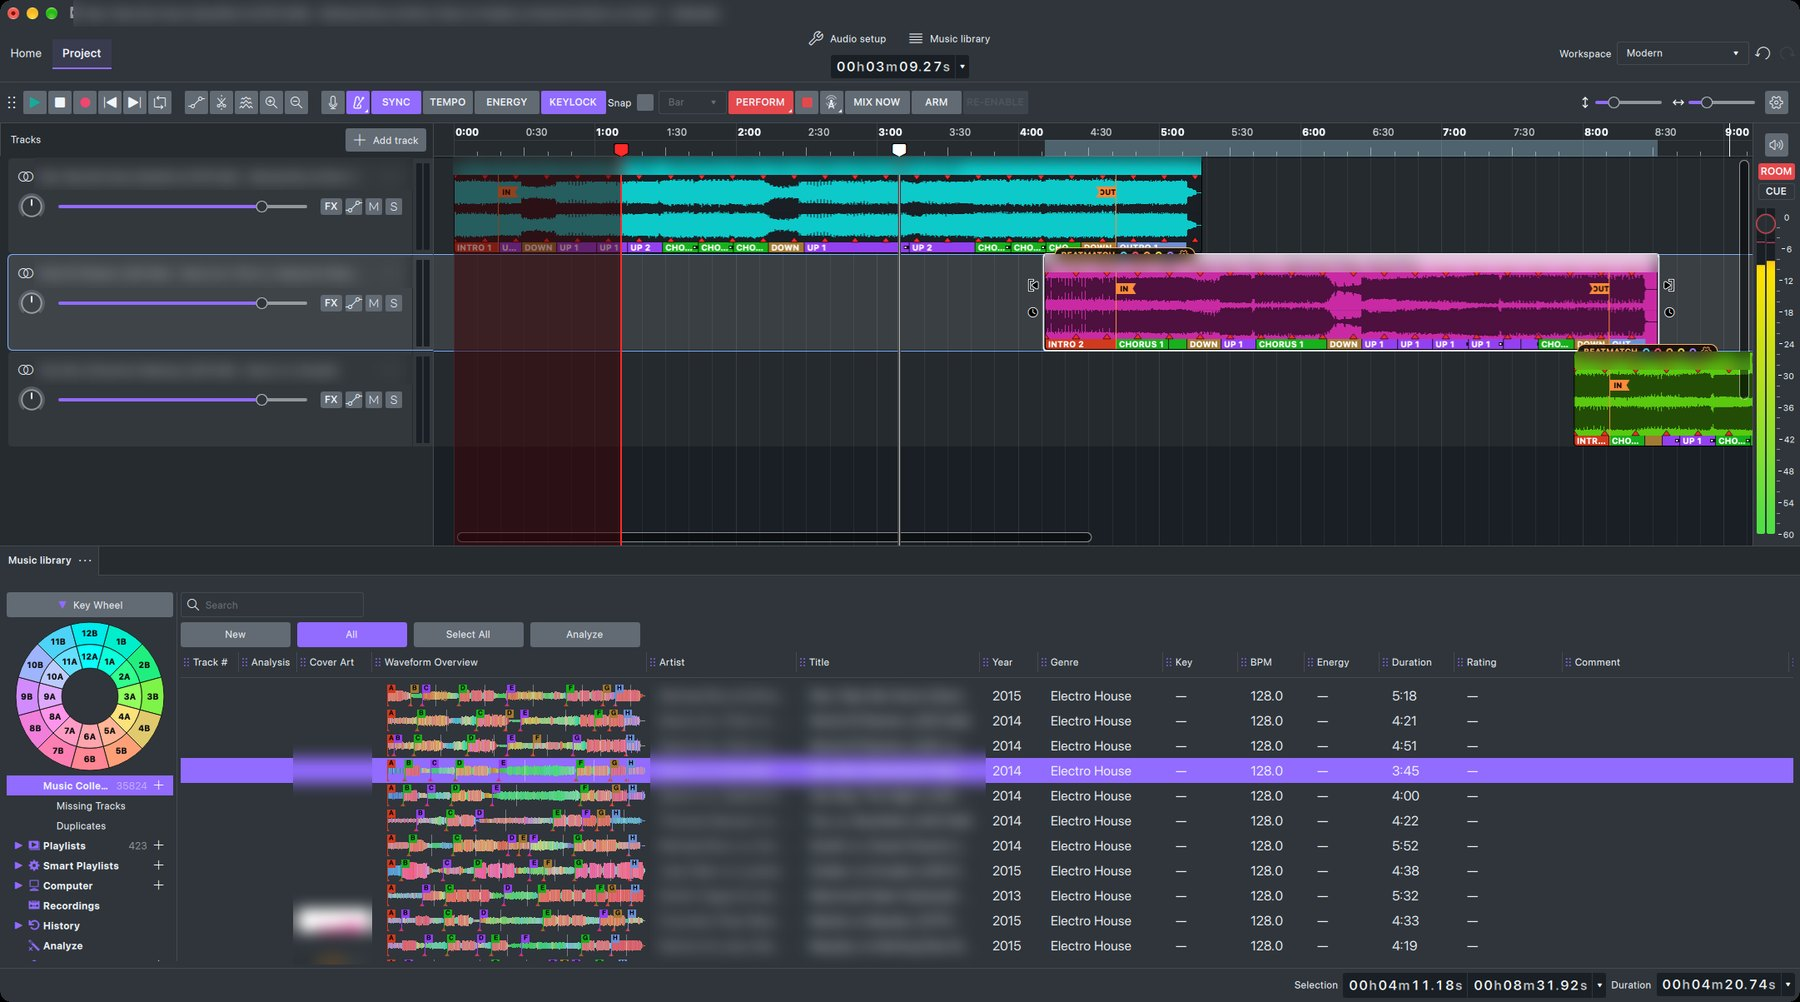
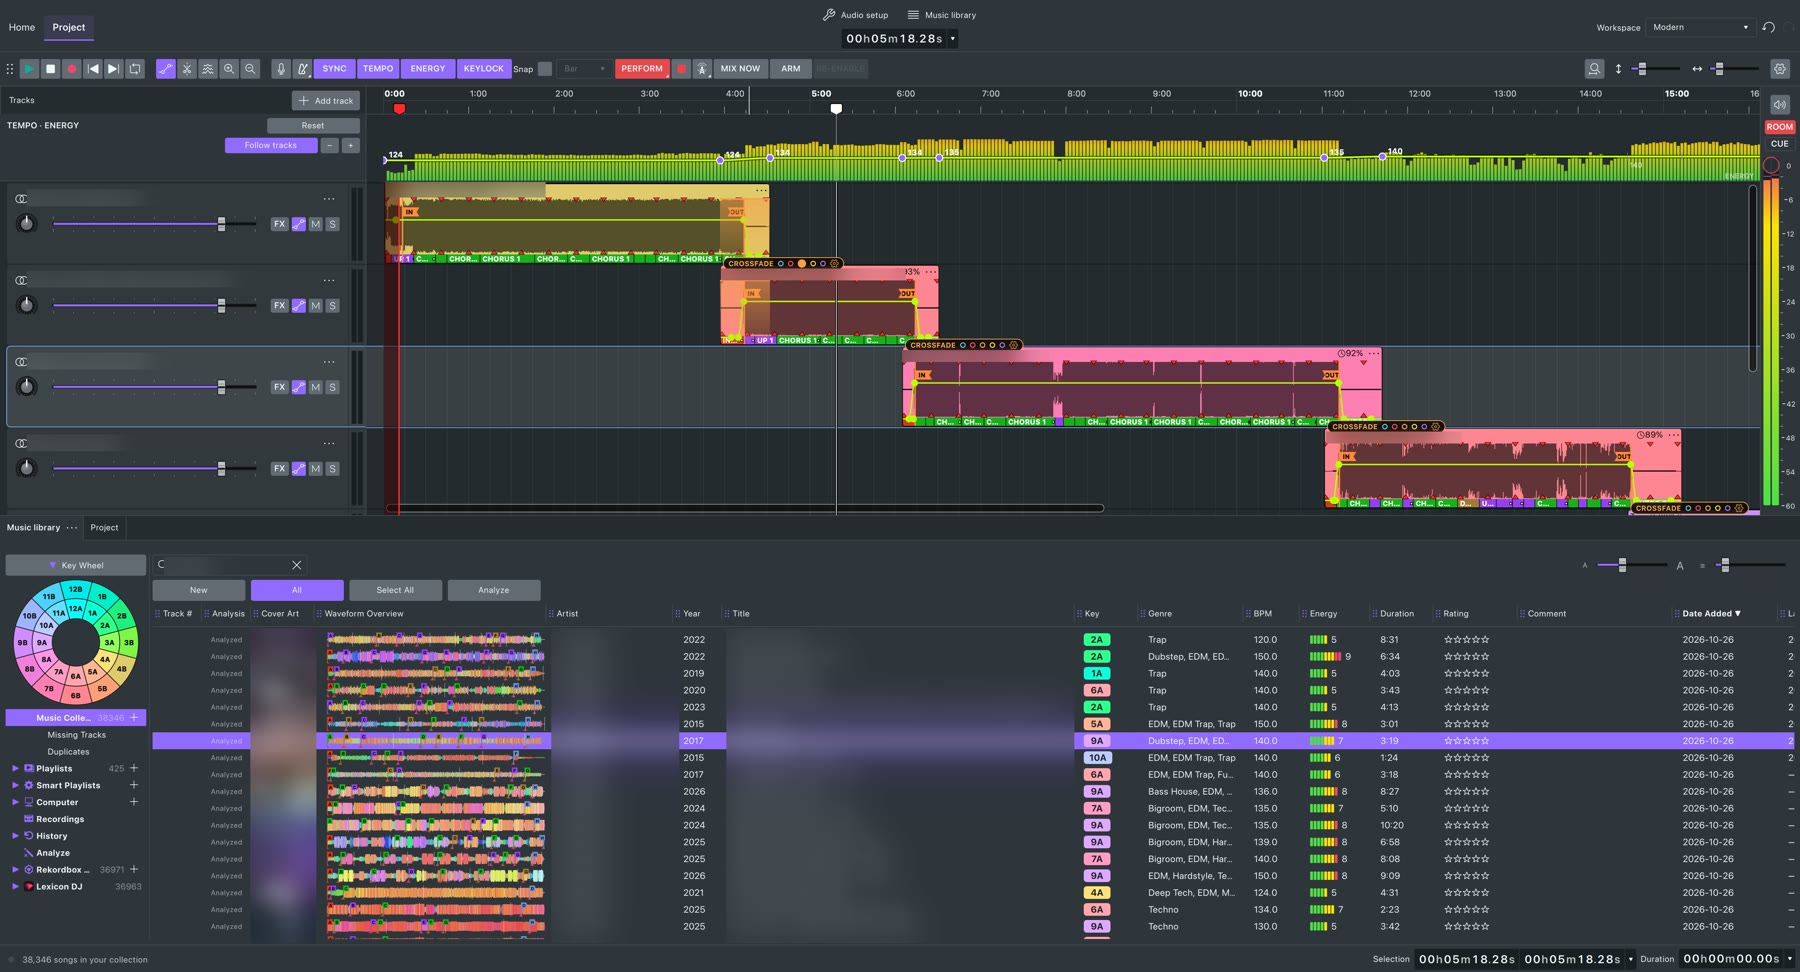
README: new screenshots, search and key wheel, Main FX sneak peek

diff --git a/README.md b/README.md
@@ -32,8 +32,8 @@ beatmatches it, locks it to the bar and lines up its **IN** with the previous so
 **OUT**, so the mix is in time from the first drop.
 
 <p align="center">
-  <img src="assets/mix.jpg" alt="A mix of six songs in GlideMix: each song on its own lane, beatmatched and linked IN to OUT" width="100%">
-  <br><i>A mix of six songs: each song beatmatched, locked to the bar and linked IN → OUT.</i>
+  <img src="assets/mix.jpg" alt="A mix of five songs in GlideMix: each song on its own lane, beatmatched and linked IN to OUT" width="100%">
+  <br><i>A mix of five songs: each song beatmatched, locked to the bar and linked IN → OUT.</i>
 </p>
 
 ## What it does
@@ -92,8 +92,17 @@ beatmatches it, locks it to the bar and lines up its **IN** with the previous so
 </p>
 
 <p align="center">
-  <img src="assets/keywheel.jpg" alt="The GlideMix key wheel: 8A selected, the library showing only songs in 8A" width="100%">
-  <br><i>Click 8A on the key wheel: only songs in 8A are left.</i>
+  <img src="assets/keywheel.jpg" alt="The GlideMix key wheel: 6A selected, the library showing only songs in 6A" width="100%">
+  <br><i>Click 6A on the key wheel: only songs in 6A are left.</i>
+</p>
+
+**Find the next song fast**
+- **Search terms** in the search box: `bpm:128`, `~bpm:128` (near 128) and `key:8A`, in any key notation (8A, 1m, Am).
+- **Search related Tracks:** right-click a song and search by its artist, album, title or key. The search shows on the key wheel or in the search box, and one click clears it.
+- **Preview without loading:** hover the cover art and click play, click the waveform to jump.
+
+<p align="center">
+  <img src="assets/search-related.jpg" alt="The GlideMix library: the right-click menu on a song with Search related Tracks open, offering artist, album, title and key" width="100%">
 </p>
 
 **Mixing on a timeline**
@@ -144,8 +153,8 @@ beatmatches it, locks it to the bar and lines up its **IN** with the previous so
 - Optional **own lane** per parameter under the track, as in Ableton.
 
 <p align="center">
-  <img src="assets/auto.jpg" alt="Automation in GlideMix: a low-pass filter line on a song, ramping down into the drop, snapping open, and curving down at the end" width="100%">
-  <br><i>Automation: a low-pass filter sweep drawn on a song. A ramp down into the drop, snapped open, then a curve into the outro.</i>
+  <img src="assets/auto.jpg" alt="Automation in GlideMix: a volume line drawn as smooth curves on a song, with the waveform following it" width="100%">
+  <br><i>A volume line drawn as S-curves: the waveform follows it.</i>
 </p>
 
 **Your plugins: VST3 and Audio Unit**
@@ -154,8 +163,8 @@ beatmatches it, locks it to the bar and lines up its **IN** with the previous so
 - Open the plugin's own window, or tweak its knobs inside GlideMix. Every knob can be automated and recorded like the built-in effects.
 
 <p align="center">
-  <img src="assets/plugins.jpg" alt="Plugins in GlideMix: Hyperlift and Serato Hex FX open on a song, with the plugin line drawn on the clip" width="100%">
-  <br><i>Hyperlift and Serato Hex FX open on a song, each knob ready to automate on the clip.</i>
+  <img src="assets/plugins.jpg" alt="Plugins in GlideMix: FabFilter Pro-Q 4 and Sugar Bytes Turnado open on a song" width="100%">
+  <br><i>FabFilter Pro-Q 4 and Sugar Bytes Turnado open on a song, each knob ready to automate on the clip.</i>
 </p>
 
 **Stems**
@@ -194,6 +203,17 @@ beatmatches it, locks it to the bar and lines up its **IN** with the previous so
 <p align="center">
   <img src="assets/stream.jpg" alt="GlideMix live broadcasting: the Broadcast window over the Icecast server settings" width="100%">
   <br><i>Broadcast live to Icecast or Shoutcast.</i>
+</p>
+
+## A look at something we're working on: Main FX
+
+A new tab for shaping the whole mix: effects on the master, a Scene pad, your own plug-ins, and a mic for voice over.
+
+It is in development and still a long way off. There is no date. It will come when it is polished, not before. It will be included for paid GlideMix users.
+
+<p align="center">
+  <img src="assets/sneak-rack.jpg" alt="An early look at the Main FX tab: filter, echo, reverb, Scene pad and voice over modules" width="100%">
+  <br><i>From a private test version, so everything you see may still change.</i>
 </p>
 
 ## Download and install
